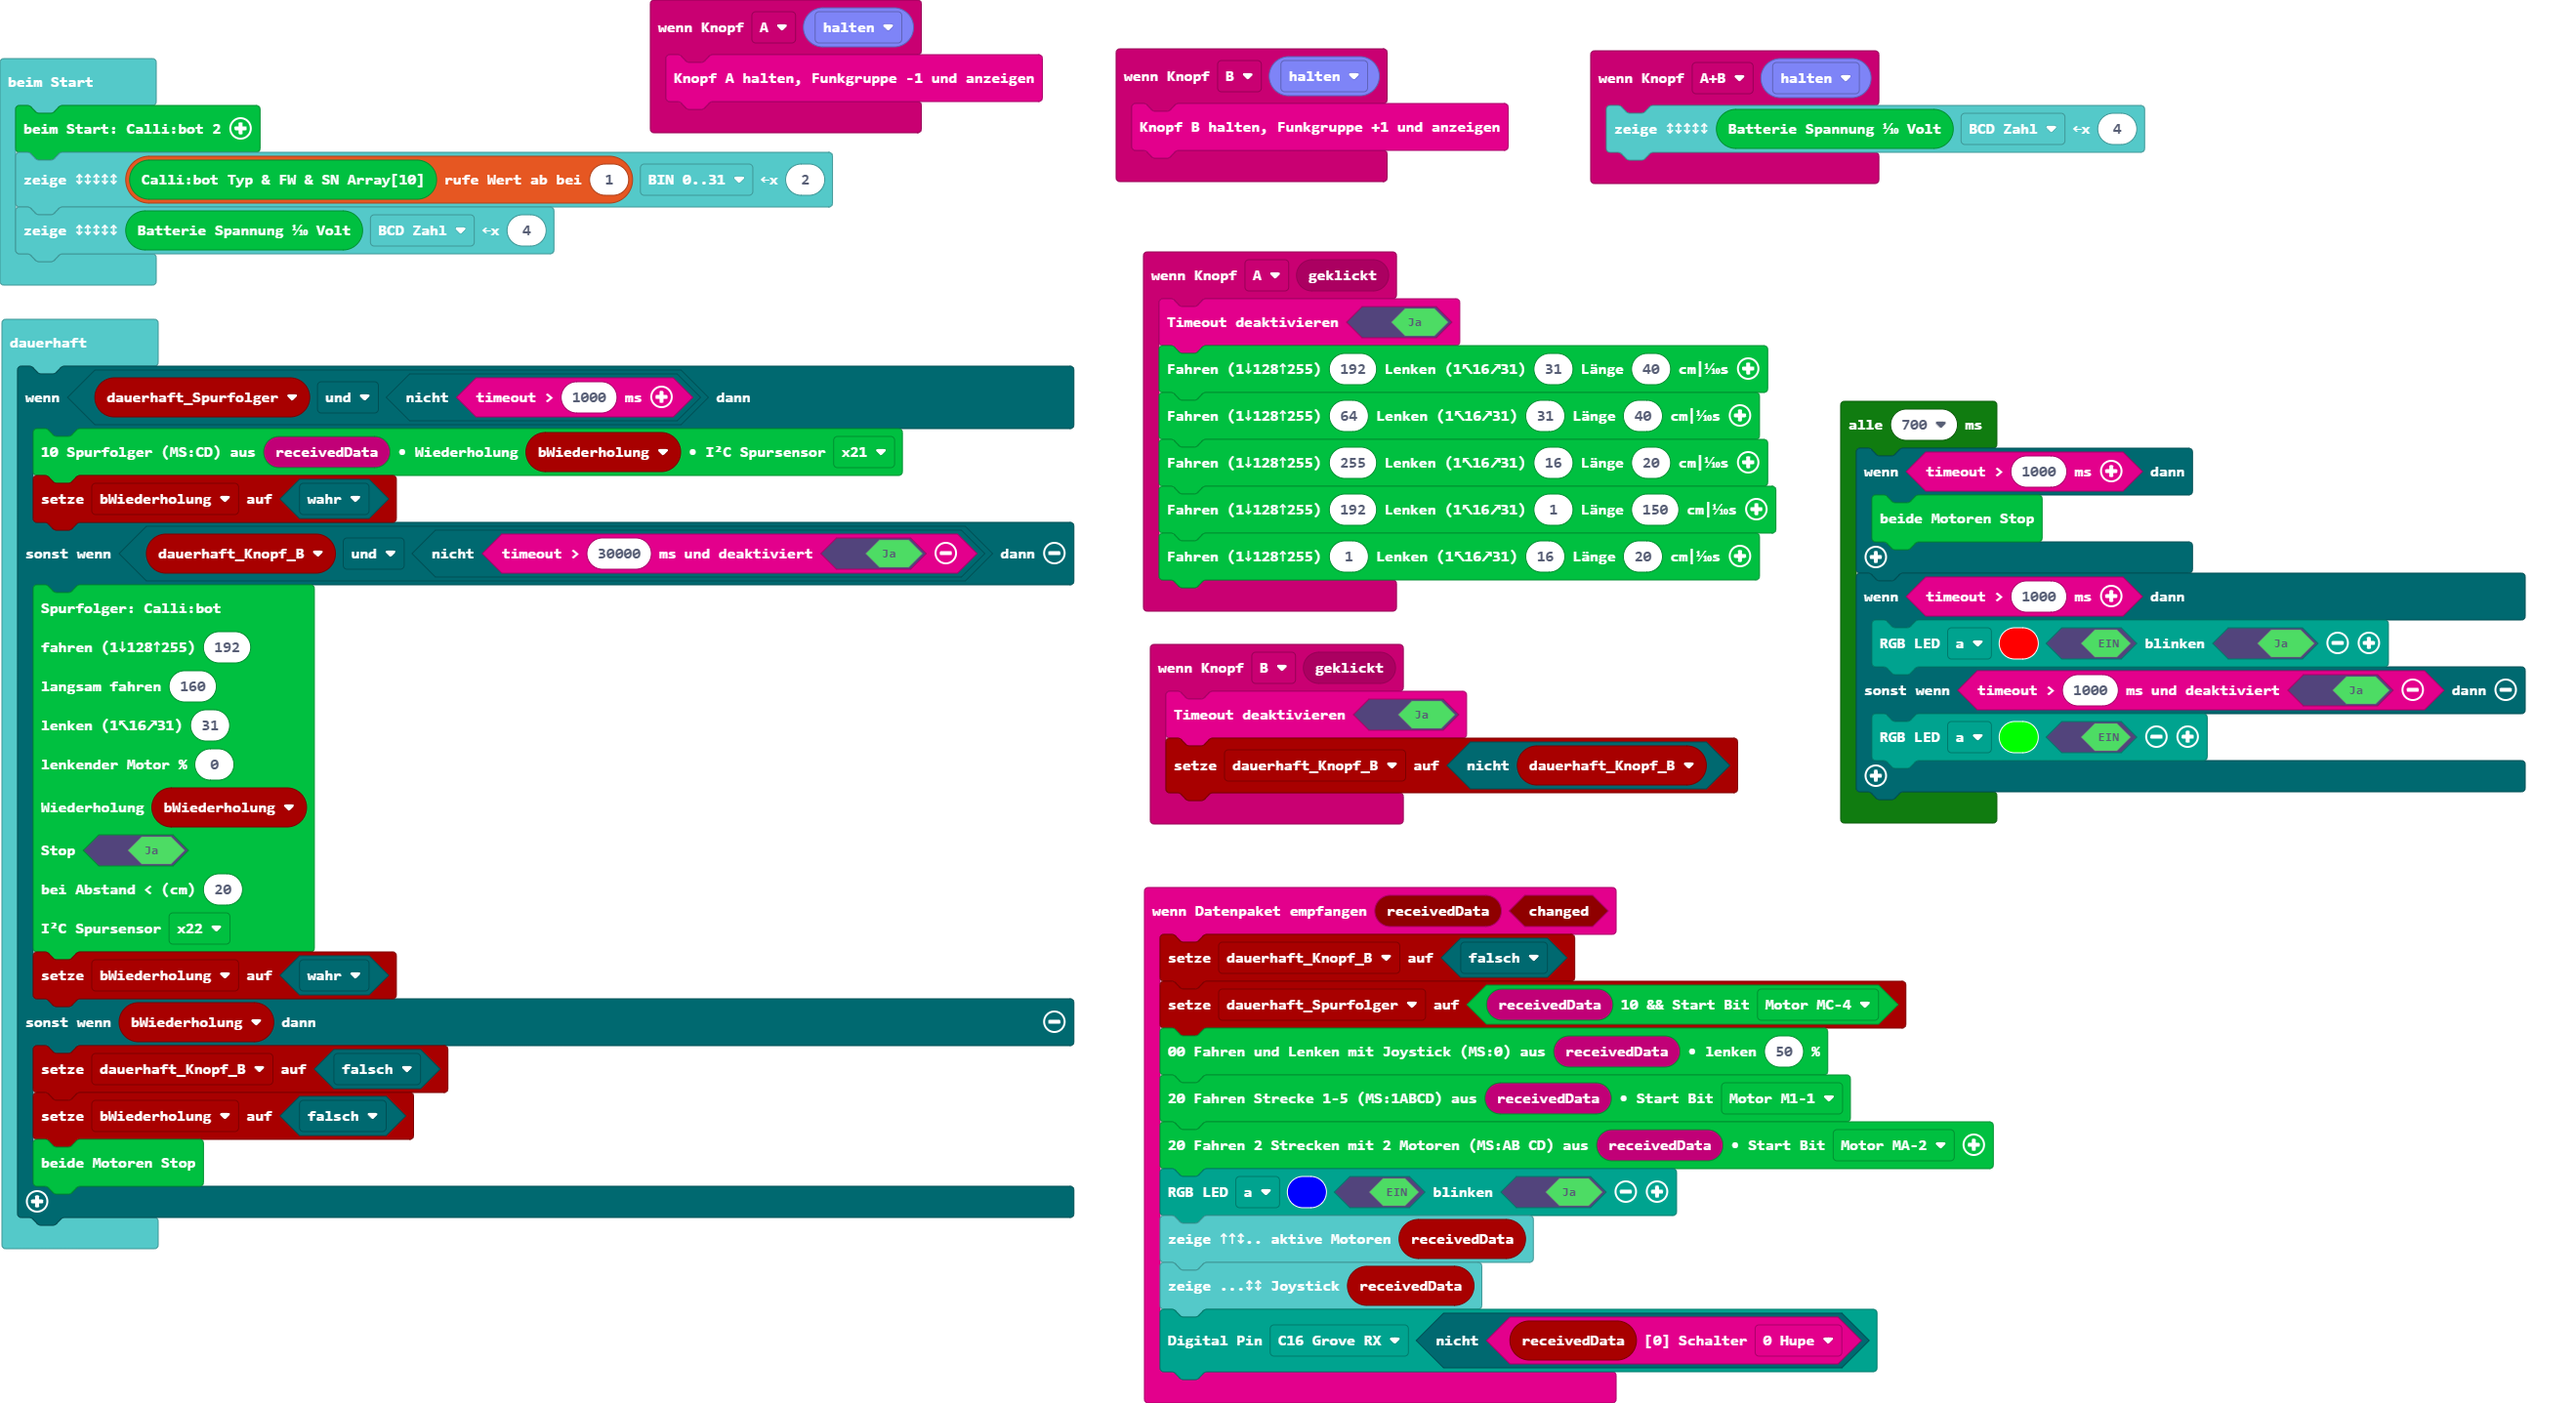
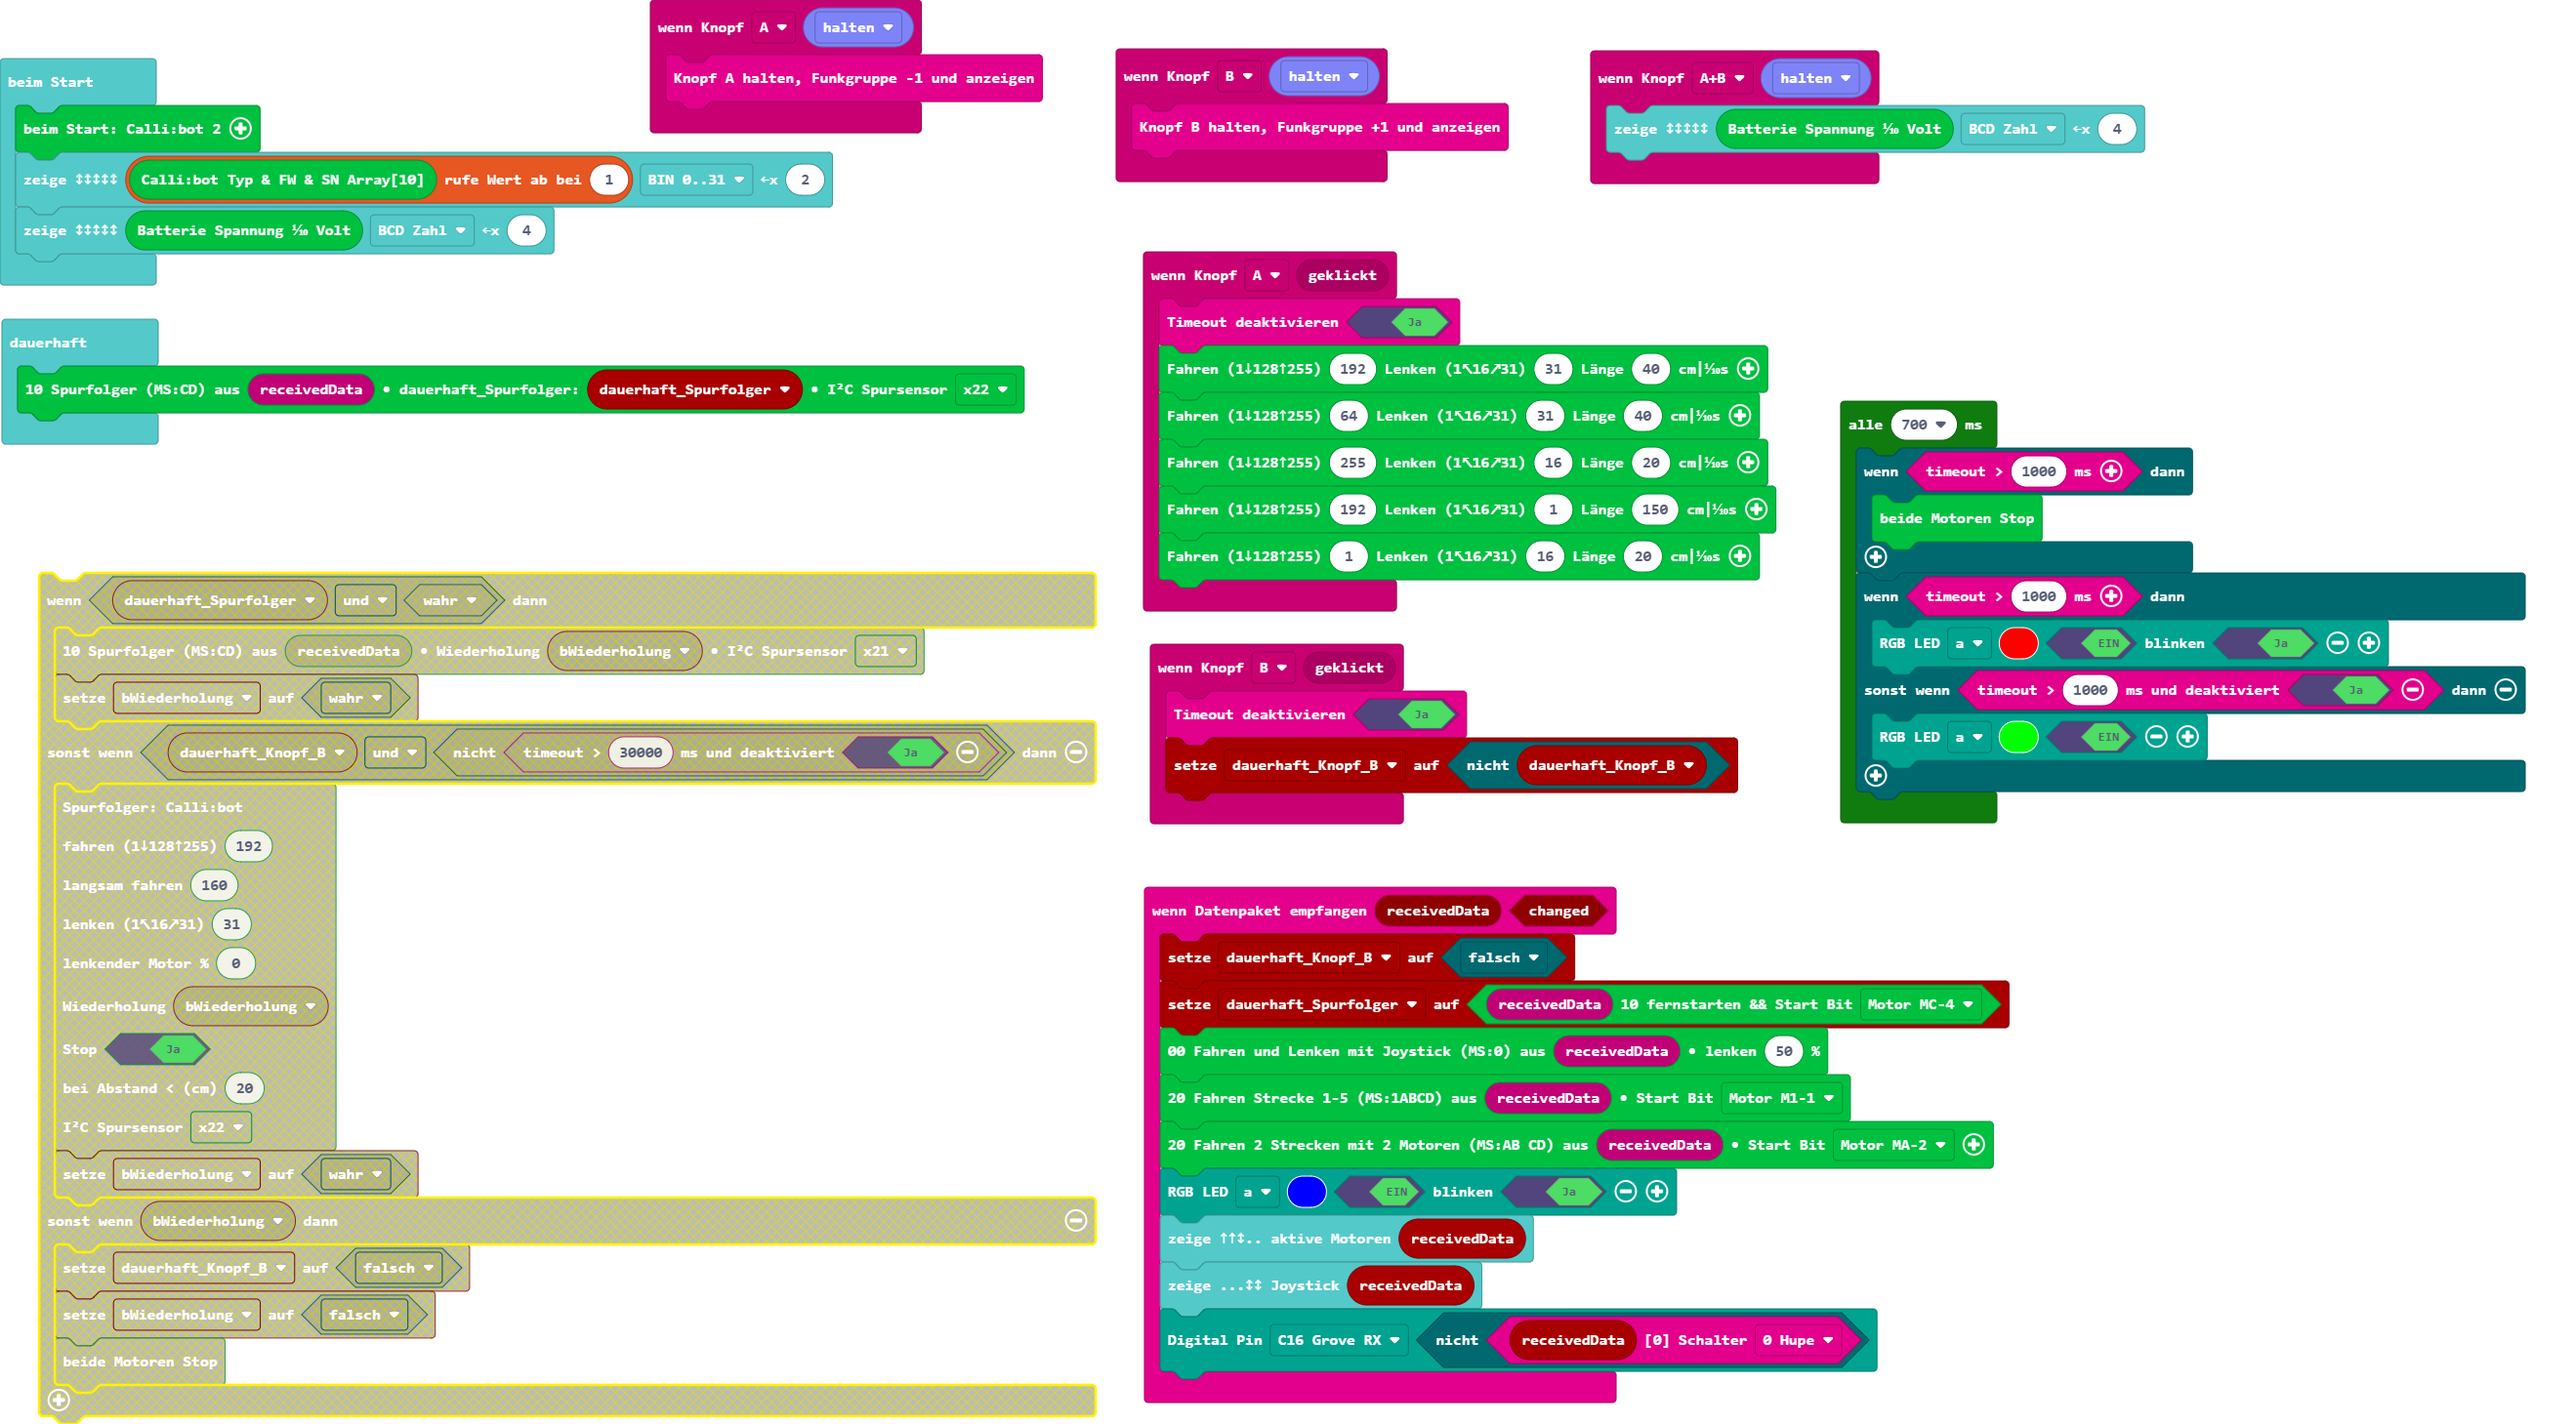
Aktualisiere pxt.json, main.blocks, main.ts

diff --git a/main.ts b/main.ts
@@ -30,33 +30,13 @@ btf.onReceivedDataChanged(function (receivedData, changed) {
 input.onButtonEvent(Button.A, btf.buttonEventValue(ButtonEvent.Hold), function () {
     btf.buttonAhold()
 })
-let bWiederholung = false
 let dauerhaft_Spurfolger = false
 let dauerhaft_Knopf_B = false
 cb2.beimStart()
 btf.zeigeBIN(cb2.readVersionArray()[1], btf.ePlot.bin, 2)
 btf.zeigeBIN(cb2.readSpannung(), btf.ePlot.bcd, 4)
 basic.forever(function () {
-    if (dauerhaft_Spurfolger && !(btf.timeout(1000))) {
-        cb2.spurfolgerBuffer(btf.btf_receivedBuffer19(), bWiederholung, cb2.eI2C.x21)
-        bWiederholung = true
-    } else if (dauerhaft_Knopf_B && !(btf.timeout(30000, true))) {
-        cb2.beispielSpurfolger16(
-        192,
-        160,
-        31,
-        0,
-        bWiederholung,
-        true,
-        20,
-        cb2.eI2C.x22
-        )
-        bWiederholung = true
-    } else if (bWiederholung) {
-        dauerhaft_Knopf_B = false
-        bWiederholung = false
-        cb2.writeMotorenStop()
-    }
+    cb2.dauerhaft_SpurfolgerBuffer(btf.btf_receivedBuffer19(), dauerhaft_Spurfolger, cb2.eI2C.x22)
 })
 loops.everyInterval(700, function () {
     if (btf.timeout(1000)) {
